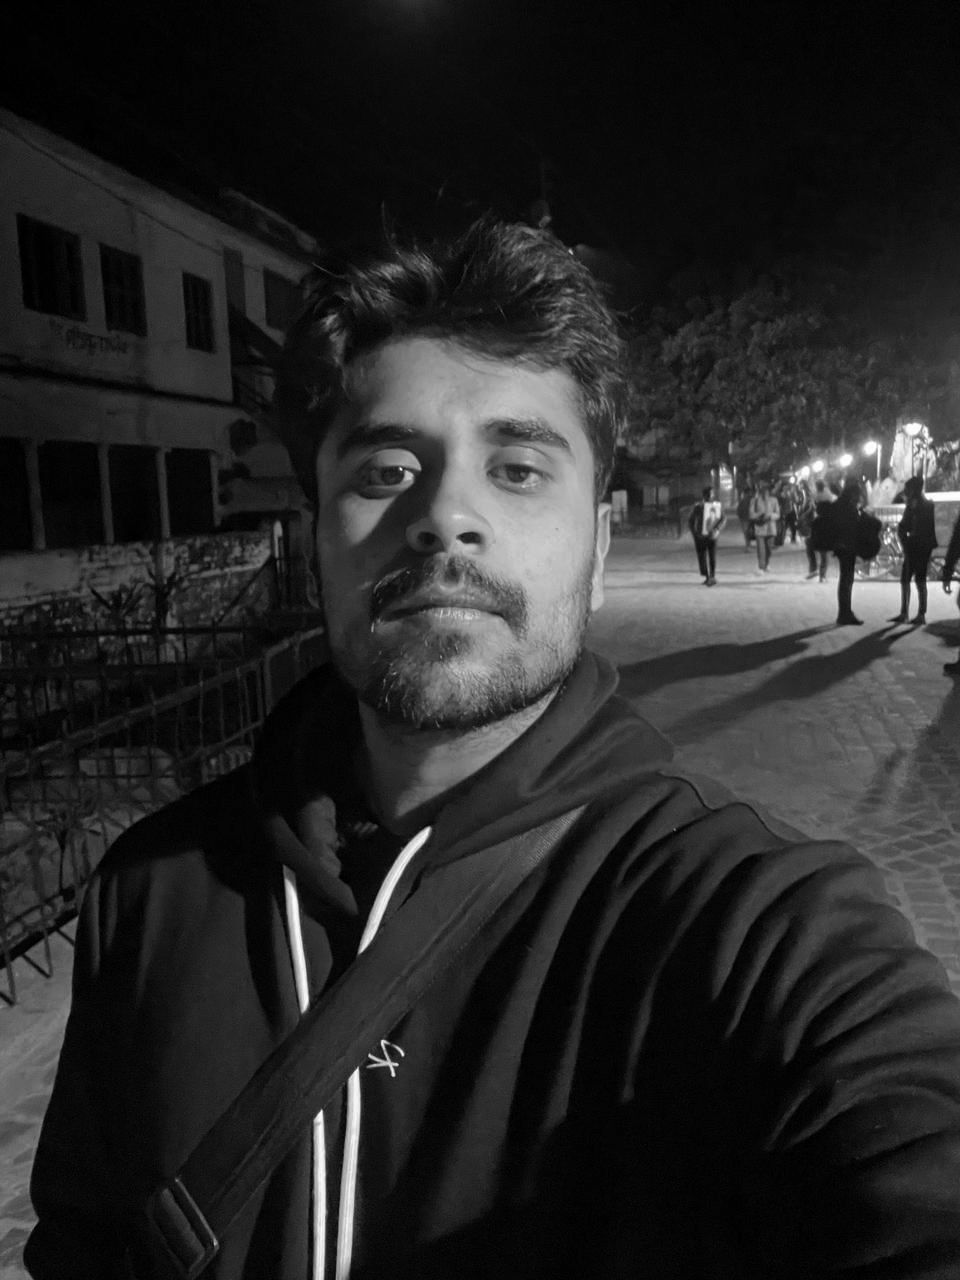
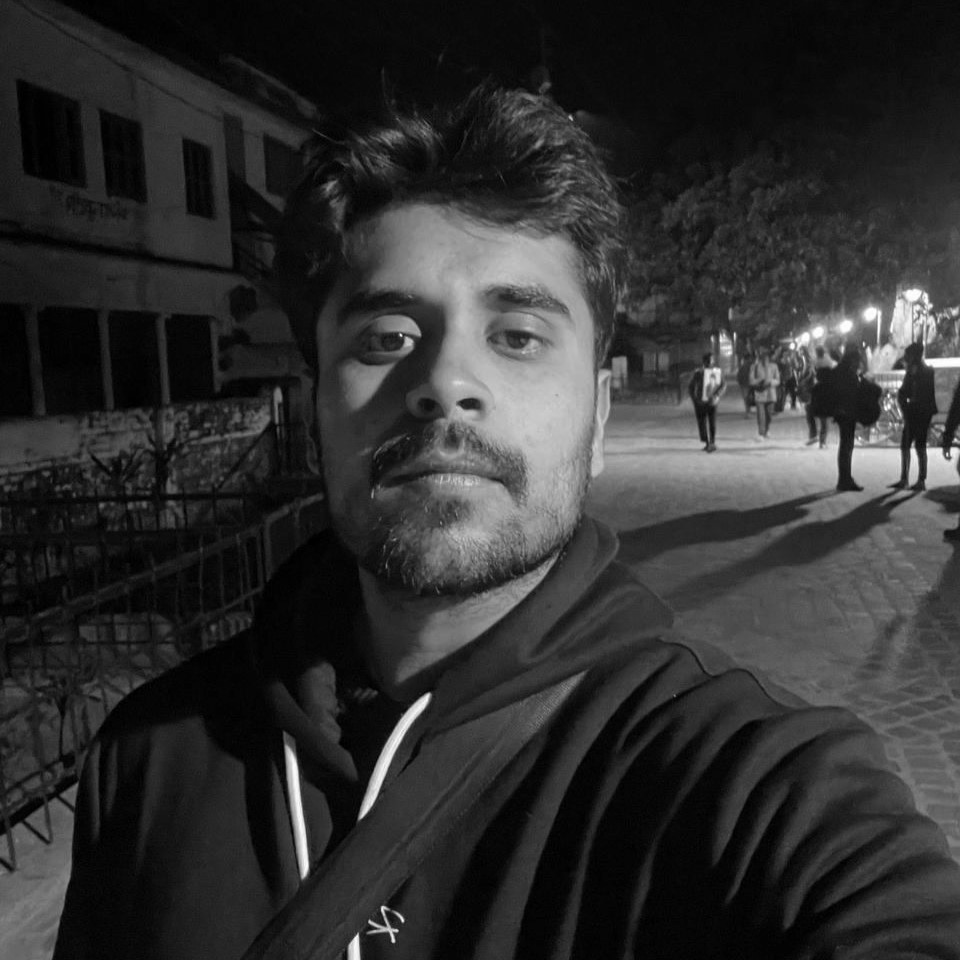
updated resume link and hero image

diff --git a/components/Hero.tsx b/components/Hero.tsx
@@ -13,7 +13,7 @@ export const Hero = () => {
       <div className="text-center w-1/2">
         <h1 className="text-4xl">
           Hi, I&apos;m{" "}
-          <span className="text-white py-1 px-3 rounded-full bg-violet-500">
+          <span className="text-white py-1 px-3 rounded-full bg-violet-500 shadow-lg shadow-violet-500/85">
             Bhavya Dang
           </span>
         </h1>
@@ -35,19 +35,16 @@ export const Hero = () => {
           </ul>
         </div>
       </div>
-      {/* Purple box */}
-      <div className="text-center w-1/2">
+
+      <div className="text-center ml-10 w-1/2">
         <Image
-          src="/me4.jpg" // Replace with the actual path to your image
+          src="/me4.jpg"
           height={400}
           width={400}
           alt="Hero Image"
-          className="rounded-full"
+          className="rounded-full drop-shadow-2xl"
         />
-
-        {/* </div> */}
       </div>
-      {/* <div className="absolute bg-violet-500 rotate-12 ml-10 w-[500px] h-[500px] z-40"></div> */}
     </div>
   );
 };

diff --git a/components/AboutMe.tsx b/components/AboutMe.tsx
@@ -1,0 +1,29 @@
+import Image from "next/image";
+
+export const AboutMe = () => {
+  return (
+    <>
+      <div className="about-me flex items-center justify-center bg-zinc-950 w-full h-auto">
+        <div className="text-left w-1/2">
+          <Image src="/me.jpg" alt="My Photo" width={200} height={200} />
+        </div>
+        <div className="about-me__description">
+          <h2 className="text-2xl font-bold mb-4 text-white">About Me</h2>
+          <p className="text-gray-600">
+            Lorem ipsum dolor sit amet, consectetur adipiscing elit. Nullam
+            euismod, nunc id aliquet ullamcorper, elit nunc lacinia nunc, vitae
+            tincidunt nunc metus vel nunc.
+          </p>
+        </div>
+      </div>
+      <div className="about-me__tech-stack">
+        <h3 className="text-xl font-bold mb-2">Tech Stack</h3>
+        <div className="tech-stack__logos">
+          {/* Add your tech stack logos here */}
+        </div>
+      </div>
+    </>
+  );
+};
+
+export default AboutMe;

diff --git a/components/Navbar.tsx b/components/Navbar.tsx
@@ -31,7 +31,7 @@ export const Navbar = () => {
   };
 
   return (
-    <nav className="flex justify-between font-mono text-slate-800 dark:text-slate-200 items-center mt-2 ml-3">
+    <nav className="flex p-4 justify-between font-mono text-slate-800 dark:text-slate-200 items-center mt-2 ml-3">
       <ul className="nav-links flex gap-8">
         <li className="hover:bg-violet-500 hover:text-white rounded">
           <a href="/">/home</a>
@@ -44,7 +44,7 @@ export const Navbar = () => {
         </li>
         <li className="hover:bg-violet-500 hover:text-white rounded">
           <a
-            href="https://sync-codes.github.io/resume/"
+            href="https://bhavya-dang.github.io/resume/"
             target="_blank"
             className="flex gap-1 items-center"
           >

diff --git a/app/page.tsx b/app/page.tsx
@@ -1,6 +1,7 @@
 import React from "react";
 
 import { Hero } from "../components/Hero";
+import { AboutMe } from "@/components/AboutMe";
 
 export default function Home() {
   return (
@@ -9,6 +10,7 @@ export default function Home() {
       {/* Radial gradient for the container to give a faded look */}
       {/* <div className="absolute pointer-events-none inset-0 flex items-center justify-center dark:bg-black bg-white [mask-image:radial-gradient(ellipse_at_center,transparent_20%,black)]"></div> */}
       <Hero />
+      {/* <AboutMe /> */}
       {/* </main> */}
     </>
   );

diff --git a/app/layout.tsx b/app/layout.tsx
@@ -63,7 +63,7 @@ export default function RootLayout({
       <head>
         <link rel="icon" href="/SY__.png" sizes="any" />
       </head>
-      <body className="font-mono m-auto p-4 bg-slate-200 dark:bg-[#212121] selection:bg-white selection:text-violet-900">
+      <body className="font-mono m-auto bg-slate-200 dark:bg-[#212121] selection:bg-white selection:text-violet-900">
         <Navbar />
         {children}
         <Analytics />

diff --git a/app/globals.css b/app/globals.css
@@ -46,4 +46,16 @@
   .notion-content p {
     @apply mt-3 mb-3;
   }
+  /* for showing only the url instead of the whole anchor tag */
+  /* .notion-content .notion-code:first-of-type .language-javascript {
+    display: inline !important;
+    visibility: hidden;
+  }
+
+  .notion-content
+    .notion-code:first-of-type
+    .language-javascript
+    .hljs-string:first-of-type {
+    visibility: visible;
+  } */
 }
